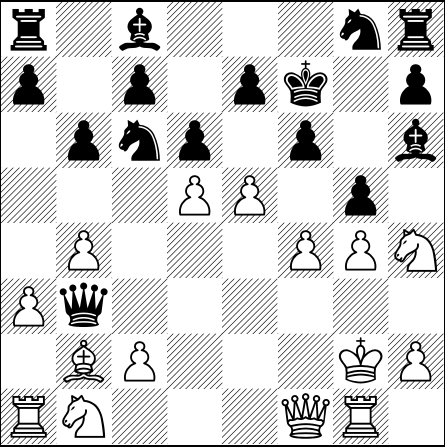
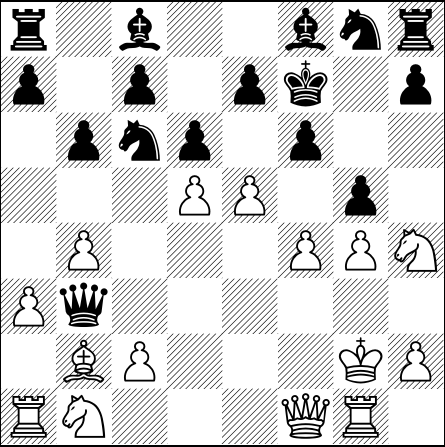
[automated] Regenerate text/pdf for chessboard

Changed region(s): [[0.8764, 0.2617, 0.9933, 0.3781], [0.6427, 0.0, 0.7303, 0.1163]]

diff --git a/default_filepath.tex b/default_filepath.tex
@@ -13,6 +13,6 @@
 \normalsize%
 \setchessboard{showmover=false}%
 \newgame%
-\fenboard{r1b3nr/p1p1pk1p/1pnp1p1b/3PP1p1/1P3PPN/Pq6/1BP3KP/RN3QR1 b - - 7 16}%
+\fenboard{r1b2bnr/p1p1pk1p/1pnp1p2/3PP1p1/1P3PPN/Pq6/1BP3KP/RN3QR1 w - - 8 17}%
 \chessboard%
 \end{document}
